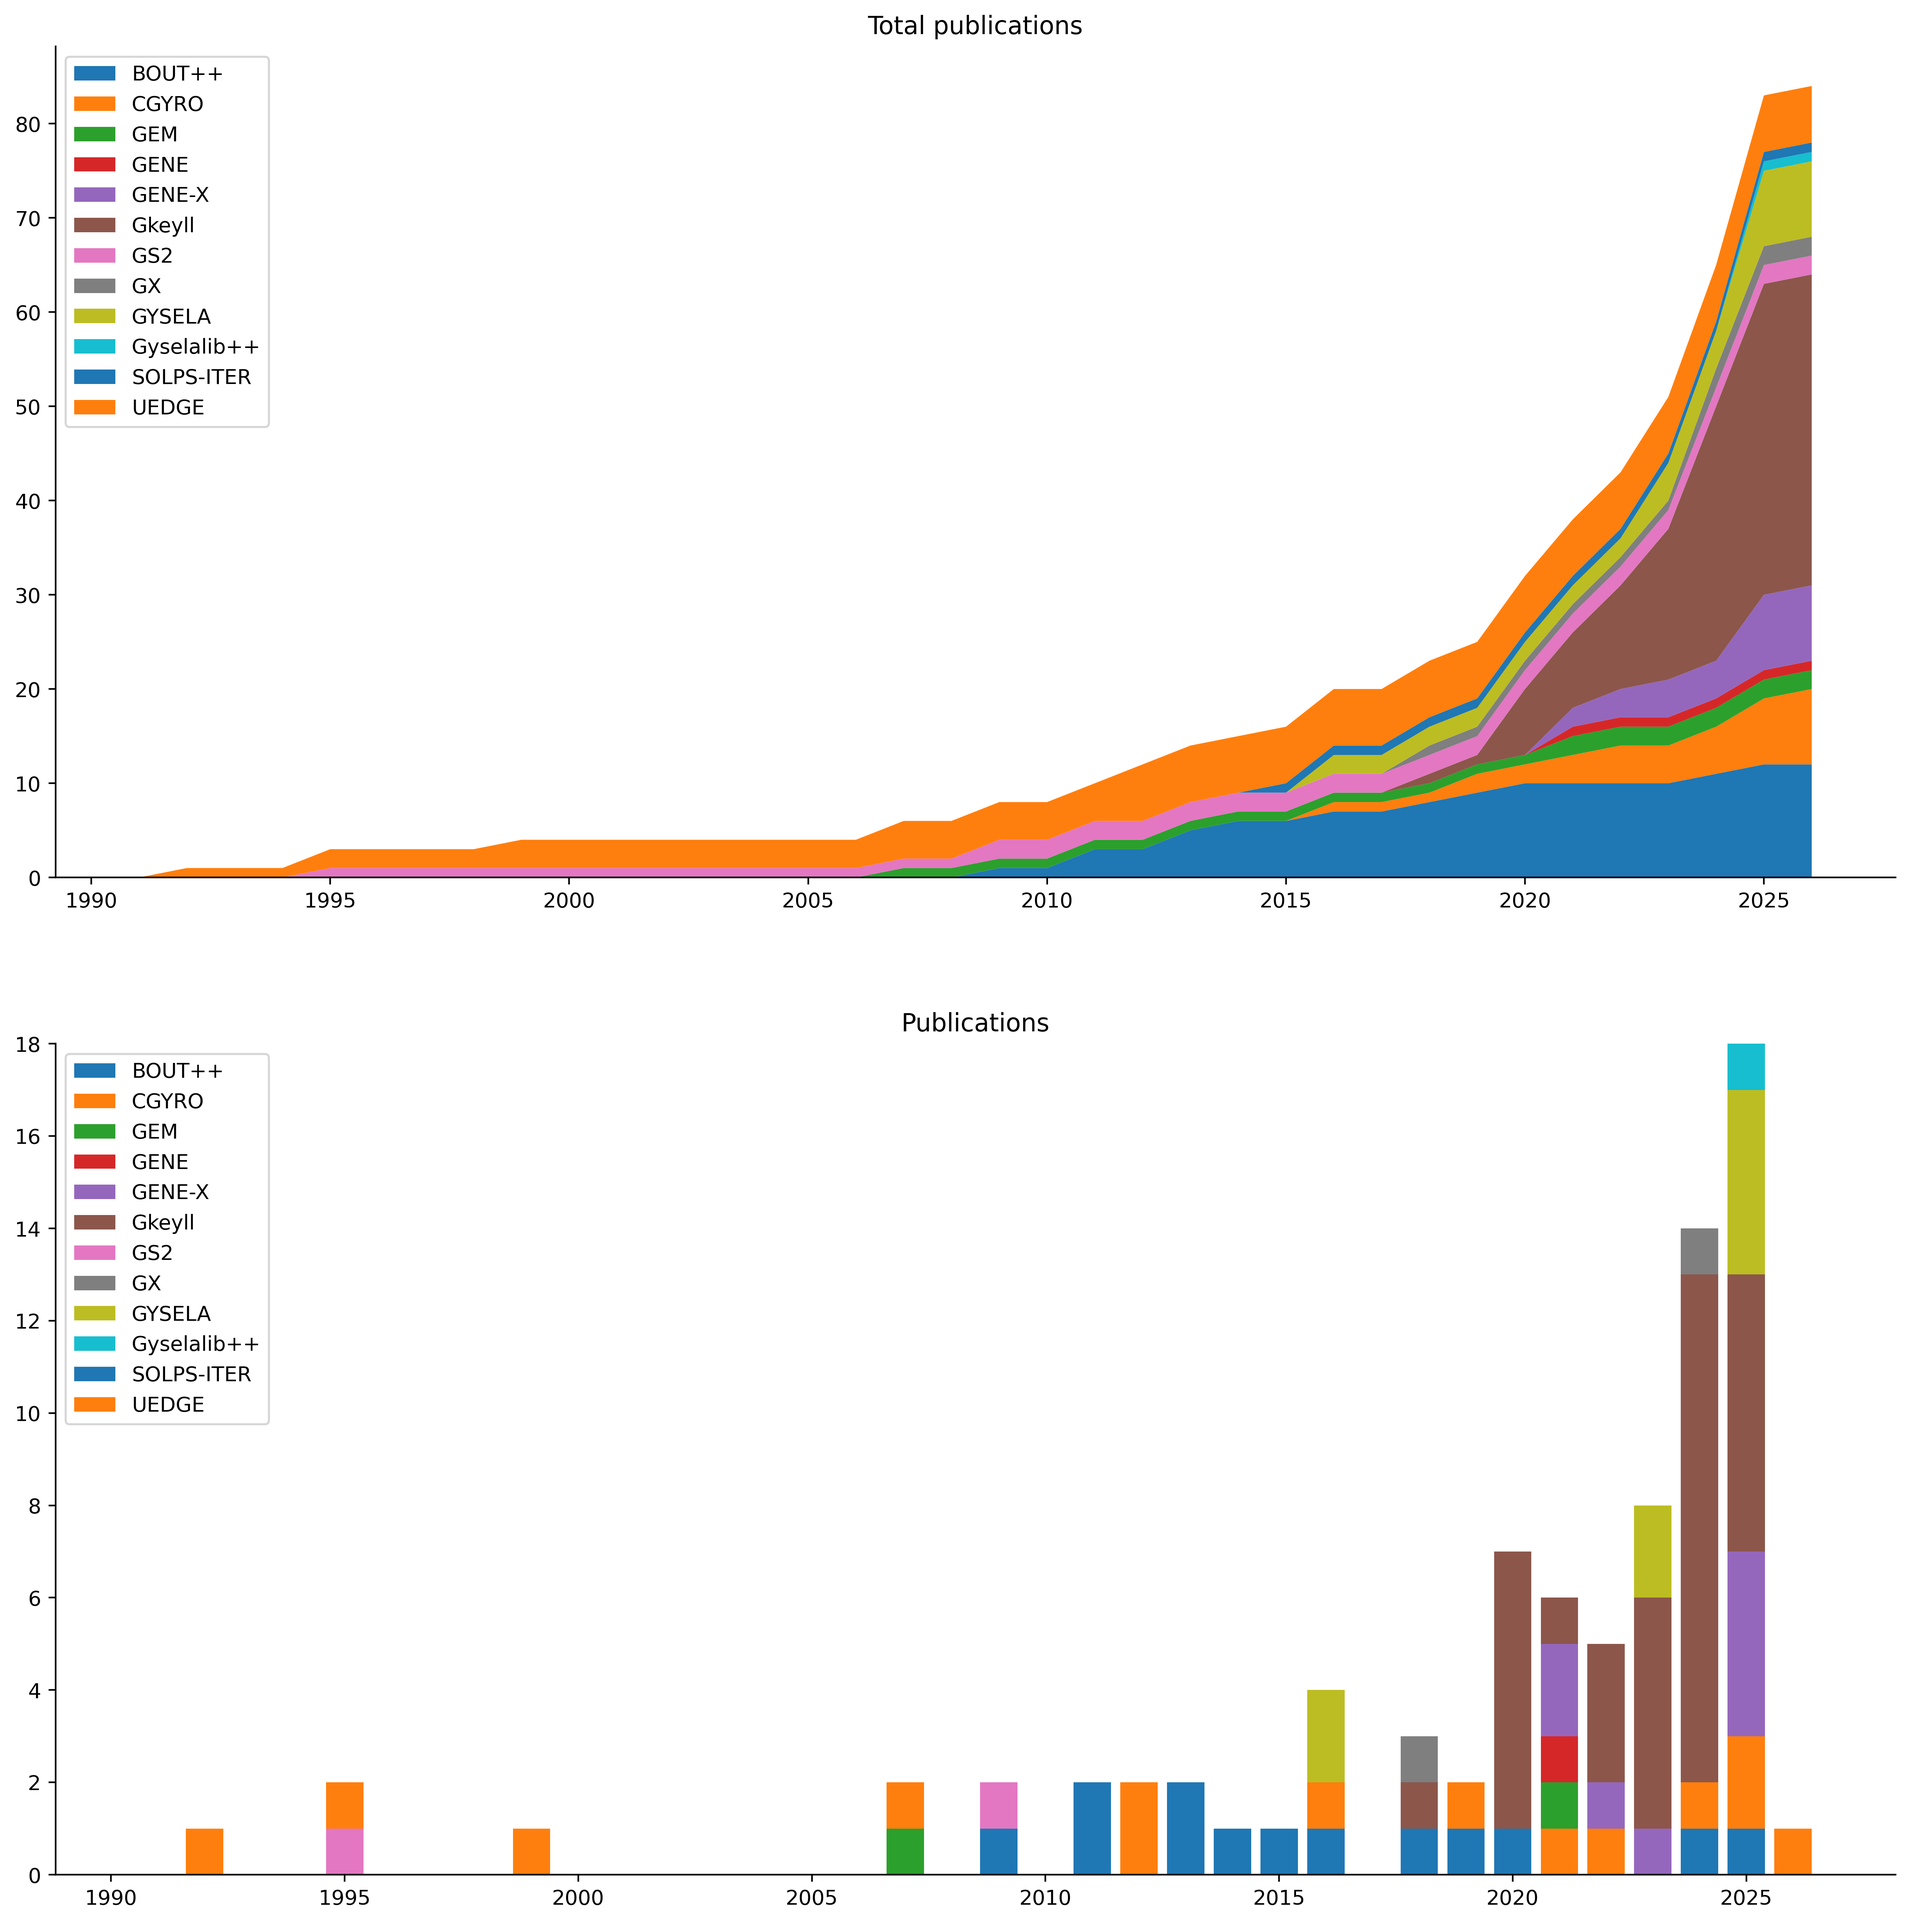
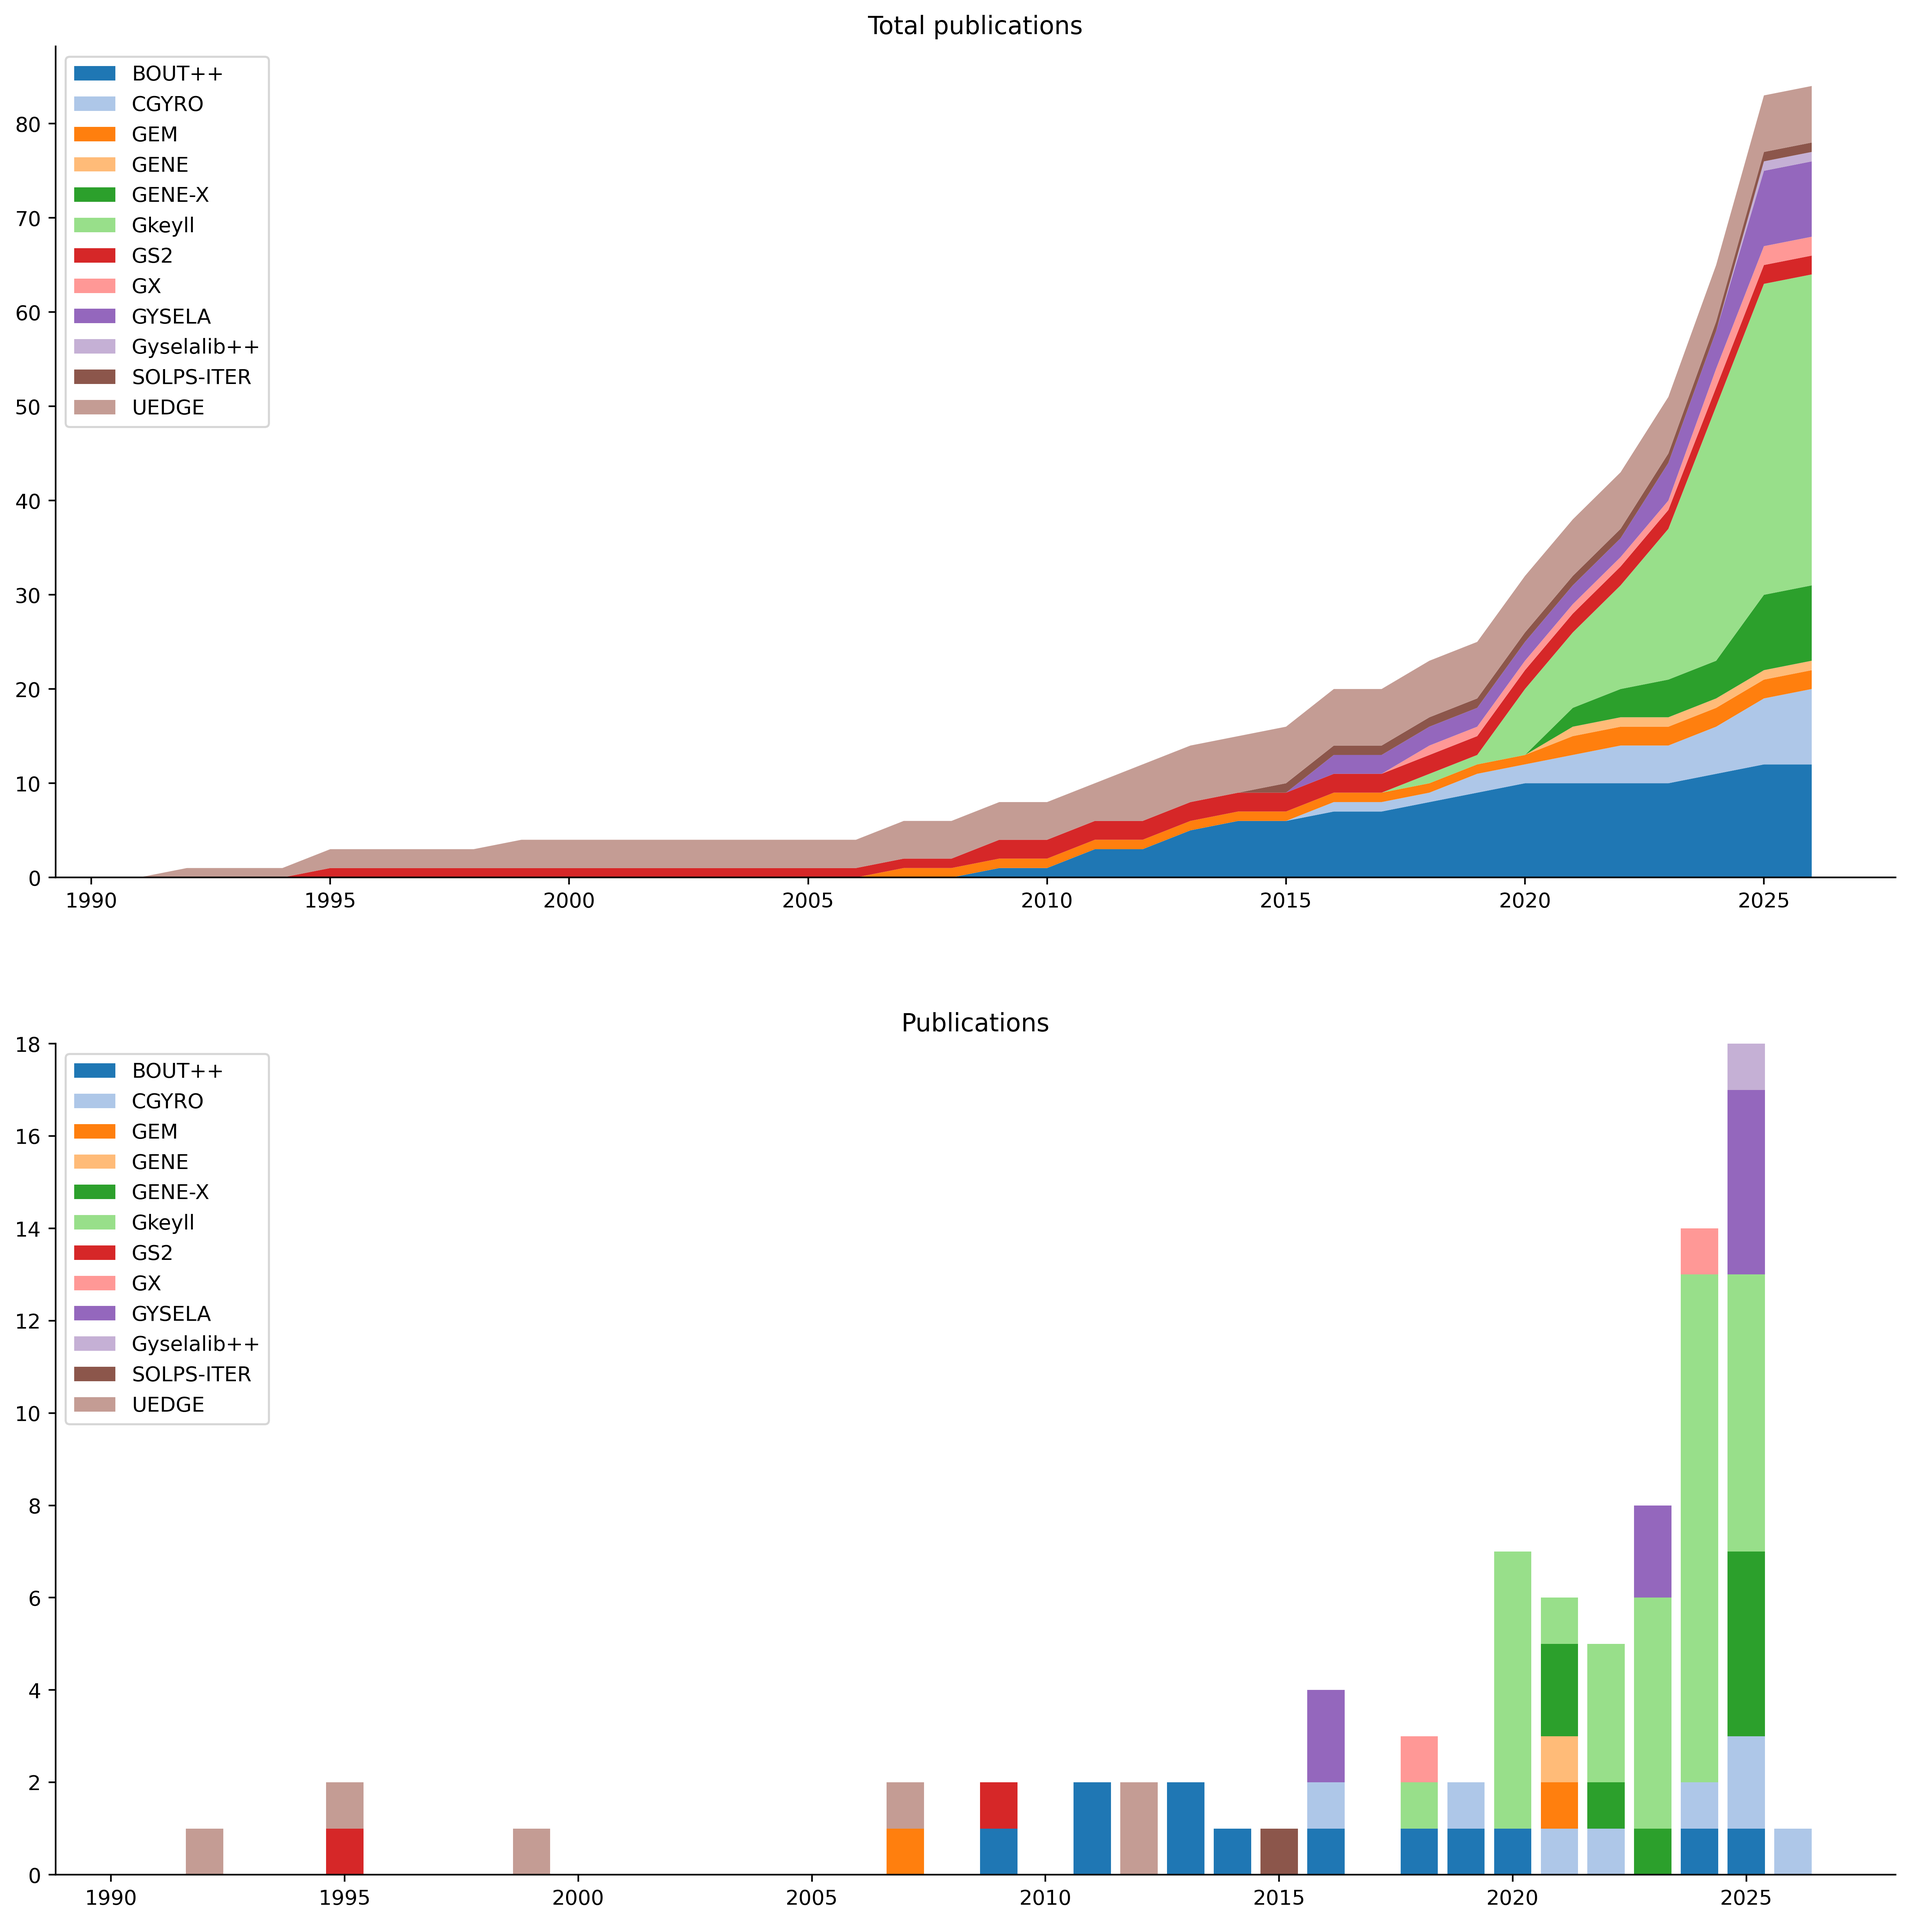
feat: use color map "tab20"

diff --git a/build.py b/build.py
@@ -158,12 +158,14 @@ def build_figure_publications(data):
                 score_partial_sum[tag][year] += 1
 
     figure = pyplot.figure(figsize=(16, 16))
+    color_map = pyplot.get_cmap('tab20')
 
     ax = figure.add_subplot(2, 1, 1)
     ax.set_title('Total publications')
     y = [value for value in score_partial_sum.values()]
     y = [list(value.values()) for value in y]
     label_list = [key for key in score_partial_sum.keys()]
+    ax.set_prop_cycle(color=[color_map(year - year_list[0]) for year in year_list])
     ax.stackplot(year_list, y, labels=label_list)
     ax.yaxis.set_major_locator(MaxNLocator(integer=True))
     ax.spines['top'].set_visible(False)
@@ -172,6 +174,7 @@ def build_figure_publications(data):
 
     ax = figure.add_subplot(2, 1, 2)
     ax.set_title('Publications')
+    ax.set_prop_cycle(color=[color_map(year - year_list[0]) for year in year_list])
     bottom = numpy.zeros(len(year_list))
     for key, value in score.items():
         x, y = zip(*sorted(value.items()))
